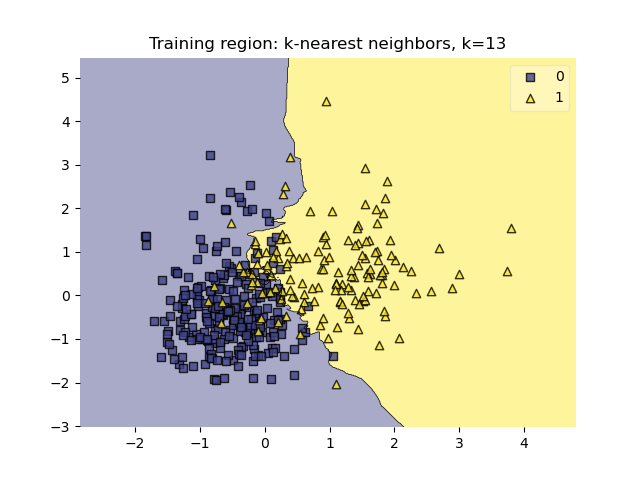
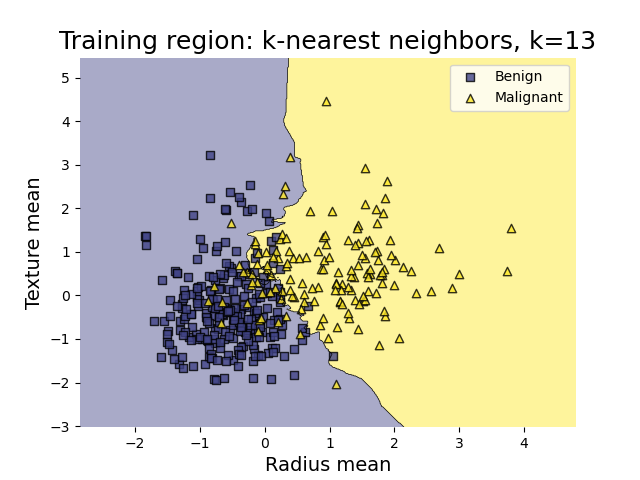
new images

Changed region(s): [[0.0938, 0.0625, 0.9375, 0.25], [0.4062, 0.9375, 0.625, 1.0], [0.0312, 0.375, 0.0625, 0.6562]]

diff --git a/DSnonprog9_5.py b/DSnonprog9_5.py
@@ -28,7 +28,7 @@ st.markdown(hide, unsafe_allow_html=True)
 def loadData():
         url = "https://raw.githubusercontent.com/aimeeschwab-mccoy/streamlit_asm/main/WisconsinBreastCancerDatabase.csv"
 
-        cancer = pd.read_csv(url)
+        cancer = pd.read_csv(url, usecols=['Radius mean', 'Texture mean','Diagnosis'])
         cancer.columns = list(cancer.columns)
 
         cancer = cancer.replace(to_replace = ['M','B'],value = [int(1), int(0)])
@@ -79,12 +79,18 @@ with col1:
 with col2:
         # Set up plot
         fig, ax = plt.subplots()
-
-        p = plot_decision_regions(X_train_scaled, np.ravel(y_train), clf=knn, colors=mycolors) 
-        p.set_title('Training region: k-nearest neighbors, k=%i' %k)
+        p = plot_decision_regions(X_train_scaled, np.ravel(y_train), clf=knn, legend=2, colors=mycolors) 
+        p.set_title('Training region: k-nearest neighbors, k=%i' %k, fontsize = 18)
 ### Uncomment to generate the plots and save the images -- need an images folder ###
+        L = plt.legend()
+        L.get_texts()[0].set_text('Benign')
+        L.get_texts()[1].set_text('Malignant')
+        plt.xlabel('Radius mean', fontsize = 14)
+        plt.ylabel('Texture mean', fontsize = 14)
         plt.savefig("images/KNeigh" + str(k) + ".png")
+        
         st.pyplot(fig, ignore_streamlit_theme=True)
+        
 ### Comment line above and Uncomment line below to use images for column 2 ###
         # st.image(images[k])
 

diff --git a/DSnonprog9_5withImages.py b/DSnonprog9_5withImages.py
@@ -84,10 +84,15 @@ with col1:
 with col2:
         # Set up plot
         # fig, ax = plt.subplots()
-
-        # p = plot_decision_regions(X_train_scaled, np.ravel(y_train), clf=knn, colors=mycolors) 
-        # p.set_title('Training region: k-nearest neighbors, k=%i' %k)
-### Uncomment line below to generate the plots and save the images -- need an images folder ###
+        # p = plot_decision_regions(X_train_scaled, np.ravel(y_train), clf=knn, legend=2, colors=mycolors) 
+        # p.set_title('Training region: k-nearest neighbors, k=%i' %k, fontsize = 18)
+### Uncomment to generate the plots and save the images -- need an images folder ###
+        # L = plt.legend()
+        # L.get_texts()[0].set_text('Benign')
+        # L.get_texts()[1].set_text('Malignant')
+        # plt.xlabel('Radius mean', fontsize = 14)
+        # plt.ylabel('Texture mean', fontsize = 14)
+        # Uncomment line below to generate images for static graphs
         # plt.savefig("images/KNeigh" + str(k) + ".png")
         # st.pyplot(fig, ignore_streamlit_theme=True)
 ### Comment line above and Uncomment line below to use images for column 2 ###
